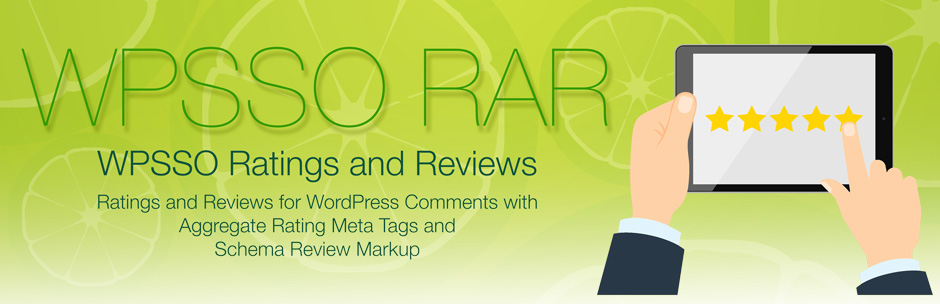
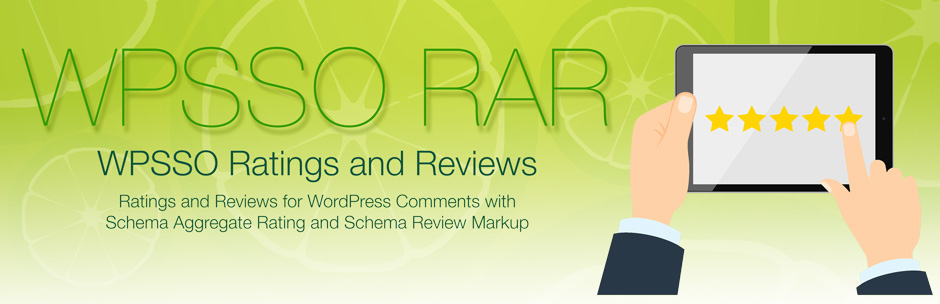
non-essential support files (documentation and assets)

diff --git a/index.html b/index.html
@@ -29,7 +29,7 @@
 
 <table>
 <tr><th align="right" valign="top" nowrap>Plugin Name</th><td>WPSSO Ratings and Reviews</td></tr>
-<tr><th align="right" valign="top" nowrap>Summary</th><td>Ratings and reviews for WordPress comments with Aggregate Rating meta tags and Schema Review markup.</td></tr>
+<tr><th align="right" valign="top" nowrap>Summary</th><td>Ratings and Reviews for WordPress Comments with Schema Aggregate Rating and Schema Review Markup.</td></tr>
 <tr><th align="right" valign="top" nowrap>Stable Version</th><td>2.5.0</td></tr>
 <tr><th align="right" valign="top" nowrap>Requires PHP</th><td>5.6 or newer</td></tr>
 <tr><th align="right" valign="top" nowrap>Requires WordPress</th><td>4.2 or newer</td></tr>
@@ -56,11 +56,11 @@
 <li><p>The color of star ratings can be customized from the settings page.</p></li>
 </ul>
 
-<p><strong>Provides <a href="https://schema.org/aggregateRating">Schema Aggregate Rating</a> meta tags and (optional) JSON-LD markup:</strong></p>
+<p><strong>Provides <a href="https://schema.org/aggregateRating">Schema Aggregate Rating</a> meta tags and optional JSON-LD markup:</strong></p>
 
-<p>Google reads aggregate rating meta tags (or the optional Schema JSON-LD markup) to add star ratings to search results (the <a href="https://wpsso.com/extend/plugins/wpsso-schema-json-ld/">WPSSO JSON Premium add-on</a> is required for the optional JSON-LD markup).</p>
+<p>Google reads aggregate rating meta tags, or the optional Schema JSON-LD markup, to add star ratings to search results (the WPSSO Schema JSON-LD Markup add-on is required for JSON-LD markup).</p>
 
-<p><strong>Includes complete <a href="https://schema.org/Review">Schema Review</a> in the (optional) JSON-LD markup:</strong></p>
+<p><strong>Includes complete <a href="https://schema.org/Review">Schema Review</a> in the optional JSON-LD markup:</strong></p>
 
 <p>Including information about the review (author name, creation time, excerpt, rating), along with the threaded replies / comments for each review (the <a href="https://wpsso.com/extend/plugins/wpsso-schema-json-ld/">WPSSO JSON Premium add-on</a> is required for the optional JSON-LD markup).</p>
 
